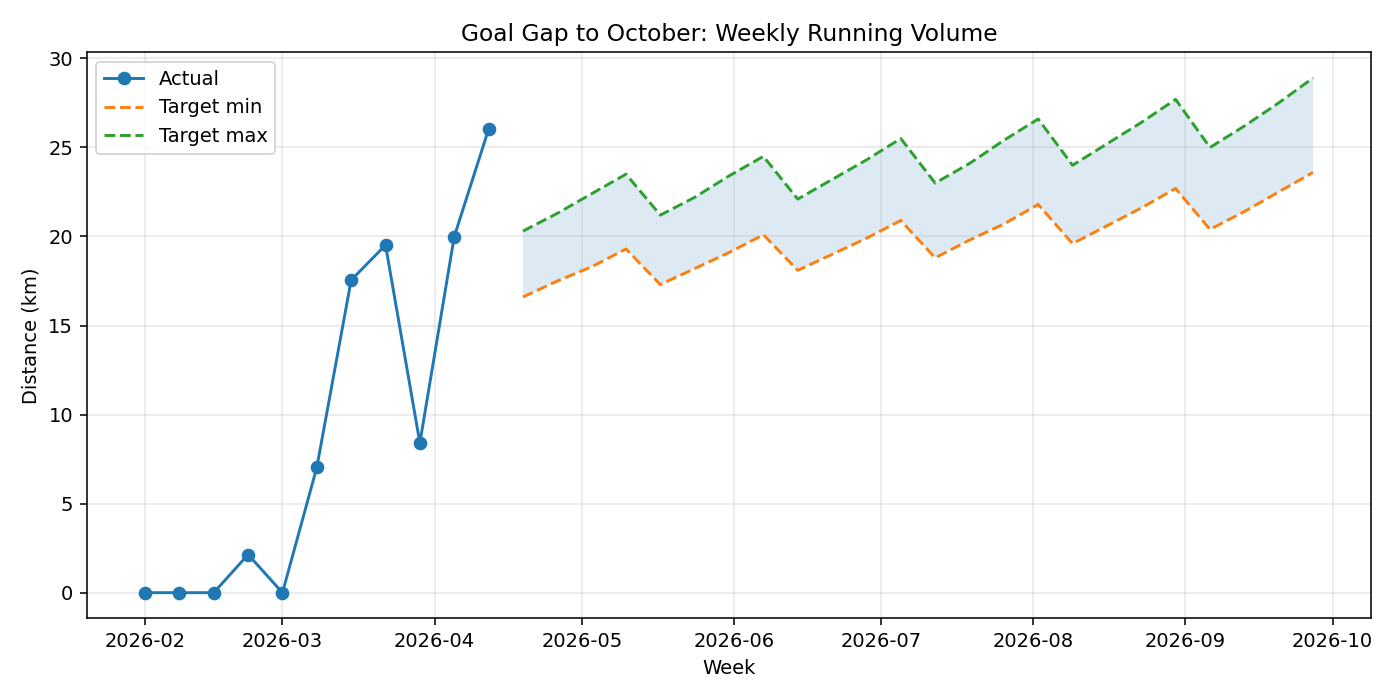
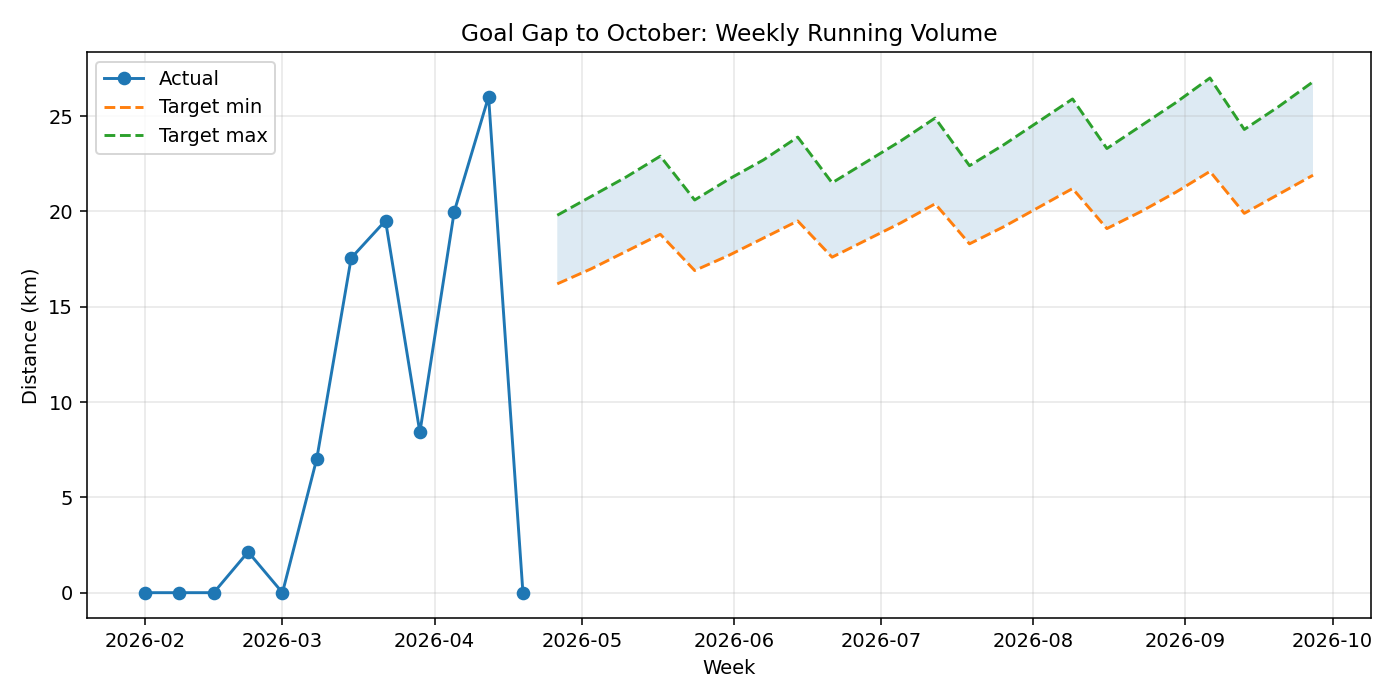
chore: update dashboard site (2026-04-21 11:49)

diff --git a/docs/data/report.md b/docs/data/report.md
@@ -1,63 +1,63 @@
 # Plan-aware Hybrid Marathon Analysis
-Window: 2026-02-01 -> 2026-04-17
+Window: 2026-02-01 -> 2026-04-21
 
 ## This Week
-- Plan week: 2.0
+- Plan week: 3.0
 - Phase: Base con fútbol
 - Planned sessions: 3
-- Completed sessions: 2
-- Running km vs target: 26.0 / 34.0
-- Long run status: done
+- Completed sessions: 0
+- Running km vs target: 0.0 / 38.0
+- Long run status: pending
 - Football status: estimated
-- Plan compliance score: 84.0
+- Plan compliance score: 0.0
 
 ## Running Progression
-- Rolling 7d running km: 0.0
-- Rolling 28d running km: 54.4157
-- Run frequency last 7/14/28: 0/3/5
-- Easy pace trend (negative faster): 0.14840499539921784
-- Pace/HR efficiency trend: -0.000174530603484034
+- Rolling 7d running km: 11.229
+- Rolling 28d running km: 57.2358
+- Run frequency last 7/14/28: 1/2/5
+- Easy pace trend (negative faster): 0.1399755804545392
+- Pace/HR efficiency trend: -0.00035327571526890103
 
 ## Durability
-- Consecutive weeks with 2+ runs: 2
-- Consecutive weeks with long run completed: 1
-- Long-run progression slope: 1.572360909090909
-- Planned volume absorbed: 157.29250000000002
-- Planned long runs completed: 50.0
-- Weeks football likely forced downscale: 1
+- Consecutive weeks with 2+ runs: 0
+- Consecutive weeks with long run completed: 0
+- Long-run progression slope: 0.9904195804195803
+- Planned volume absorbed: 98.69333333333334
+- Planned long runs completed: 33.333333333333336
+- Weeks football likely forced downscale: 2
 
 ## Football Interference
 - Status: ok
 - Next-day pace delta: None
-- 48h pace delta: 0.23273858952531631
-- 72h pace delta: 0.25107939232203896
+- 48h pace delta: 0.13299954394174693
+- 72h pace delta: 0.15134034673846955
 
 ## Predictions
-- Next-week volume completion probability: 0.55
-- Next long-run completion probability: 0.20
-- Next quality completion probability: 0.51
-- Downscale probability: 0.90
+- Next-week volume completion probability: 0.54
+- Next long-run completion probability: 0.27
+- Next quality completion probability: 0.52
+- Downscale probability: 0.89
 
 ## Readiness
 - Aerobic fitness: declining
 - Durability: building
-- Fatigue: high
+- Fatigue: low
 - Marathon readiness: strong
 
 ## Marathon Estimate
-- Fitness-based: 03:44:39
-- Durability-adjusted: 04:12:17
-- Realistic range: 03:35:56 to 04:10:30
-- Confidence score: 98.0/100
+- Fitness-based: 03:54:23
+- Durability-adjusted: 04:15:17
+- Realistic range: 03:35:56 to 04:17:47
+- Confidence score: 80.0/100
 
 ## Pace Recommendations
-- Easy: 5.21-5.56 min/km
-- Steady: 4.86-5.06 min/km
-- Marathon pace: 5.42-5.57 min/km
-- Threshold: 5.12-5.27 min/km
+- Easy: 5.09-5.44 min/km
+- Steady: 4.74-4.94 min/km
+- Marathon pace: 5.50-5.65 min/km
+- Threshold: 5.20-5.35 min/km
 
 ## Confidence Notes
-- Confidence is stable: recent running and football data coverage are adequate.
+- Confidence reduced because football actuals are missing for the last 23 days.
 
 ## Files generated
 - report.md
